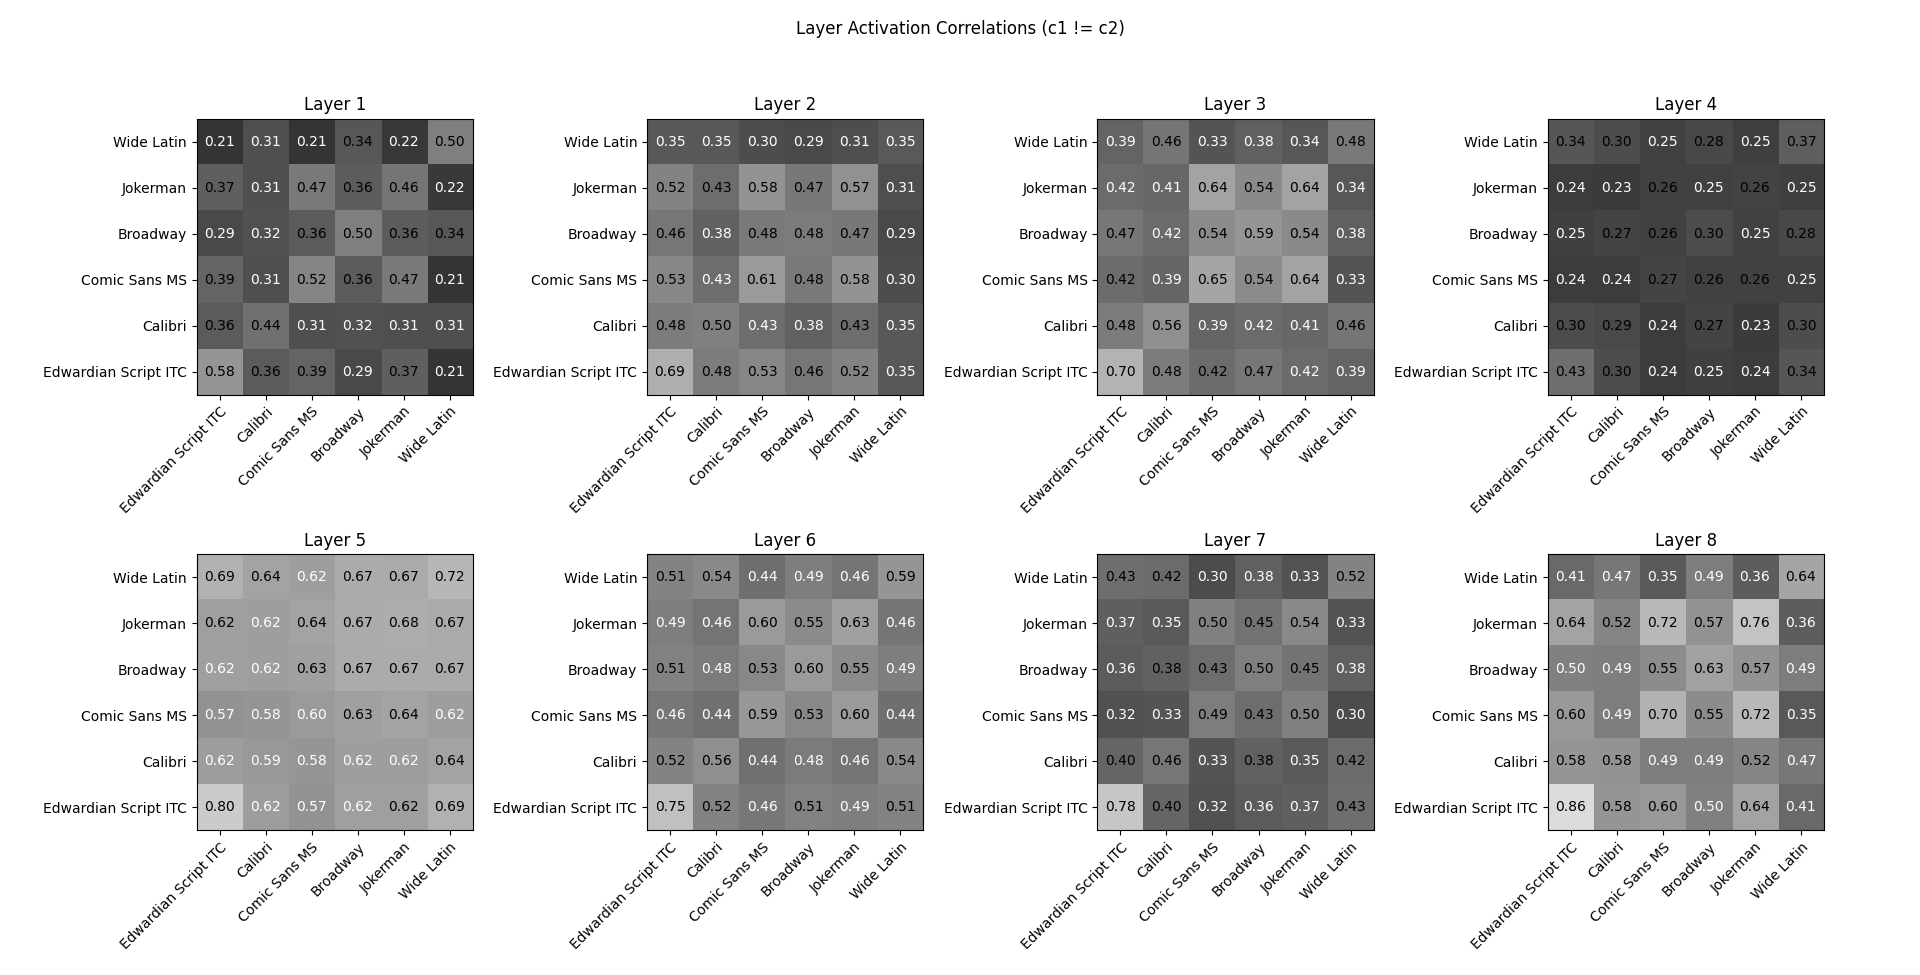
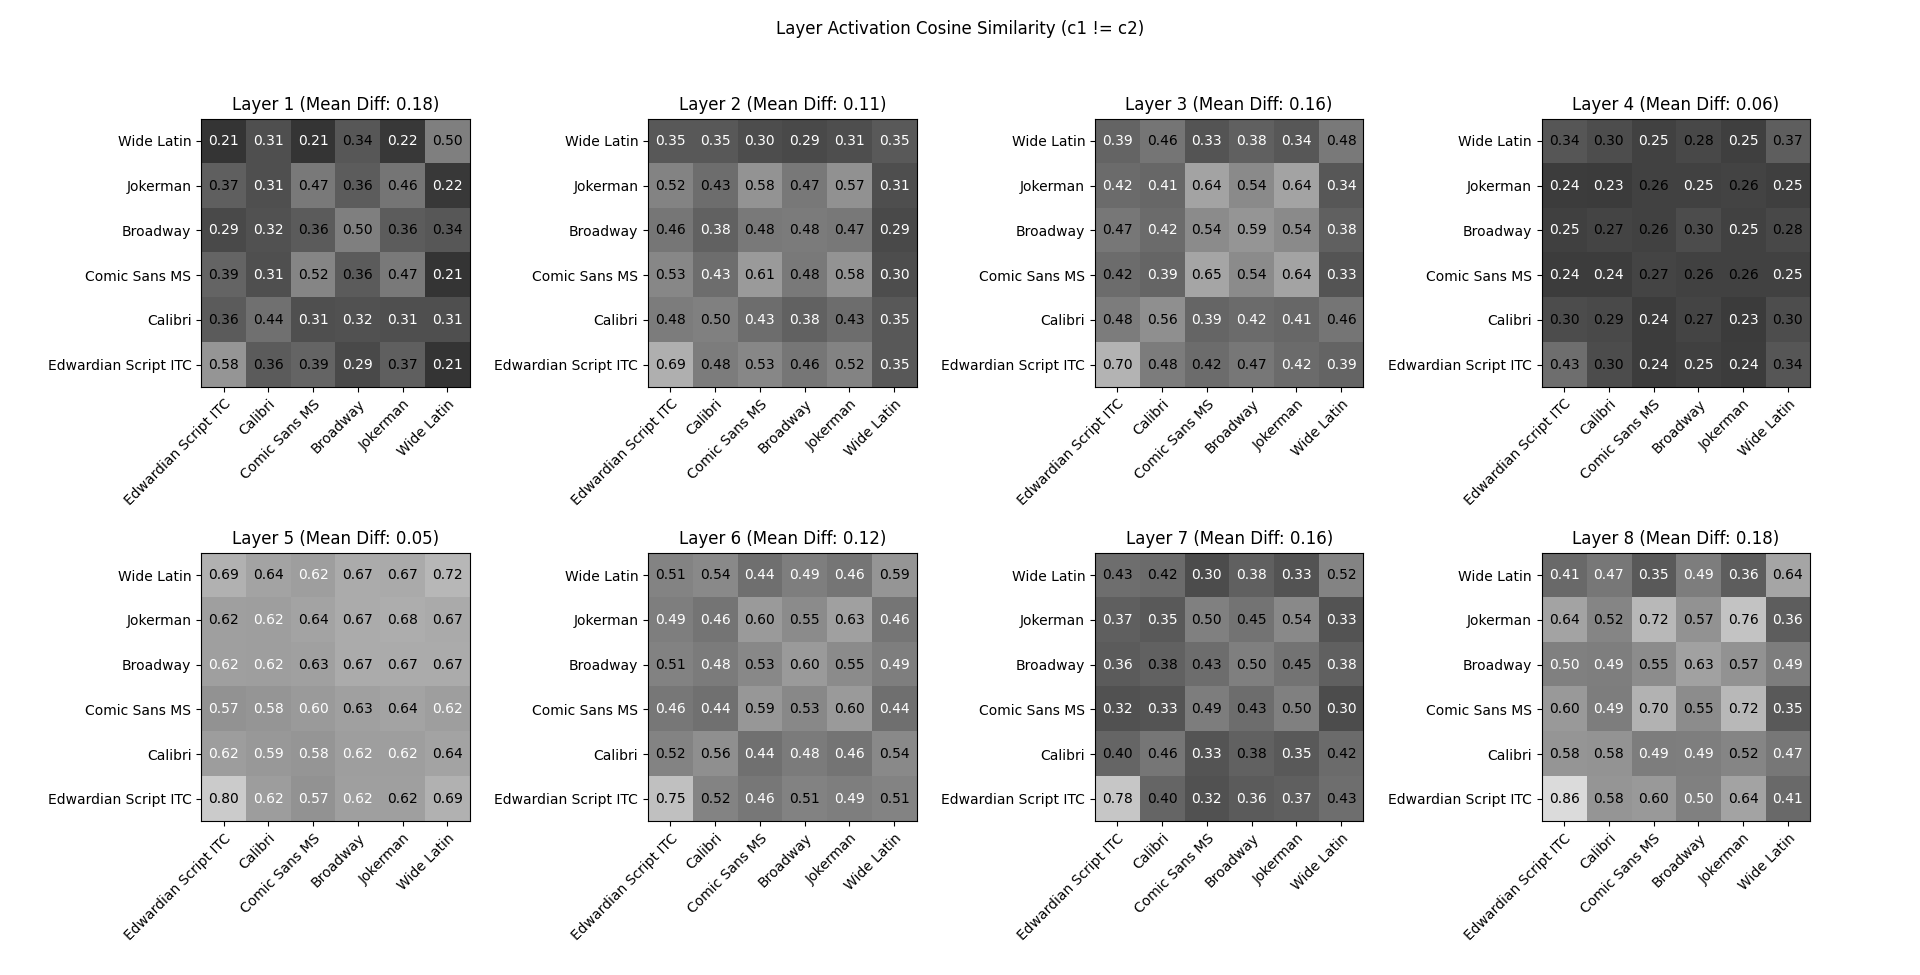
Statistical measures appended to activation similarity for interpretation

diff --git a/style/testing.py b/style/testing.py
@@ -14,6 +14,7 @@ from scipy.stats import pearsonr
 
 import pandas as pd
 import matplotlib.pyplot as plt
+from sklearn.metrics import roc_auc_score
 
 
 # Method for obtaining the correlation between the style applied to the actual images
@@ -29,6 +30,36 @@ def batchCorrelation(yTrueNormal, yTrueStyle, yPredNormal, yPredStyle):
 
 def listify(array):
     return [array[i] for i in range(array.shape[0])]
+
+
+def diagonalCohensD(matrix):
+    mask = np.eye(matrix.shape[0], dtype=bool)
+    onDiag = matrix[mask]
+    offDiag = matrix[~mask]
+
+    diagStd = np.std(onDiag, ddof=1)
+    offStd = np.std(offDiag, ddof=1)
+    diagMean = np.mean(onDiag)
+    offMean = np.mean(offDiag)
+
+    pooledStd = np.sqrt((diagStd ** 2 + offStd ** 2) / 2.0)
+    return (diagMean - offMean) / (pooledStd + 1e-6)
+
+
+def auc(matrix):
+    labels = np.eye(matrix.shape[0], dtype=bool)
+    return roc_auc_score(labels.flatten(), matrix.flatten())
+
+
+def diff(matrix):
+    mask = np.eye(matrix.shape[0], dtype=bool)
+    onDiag = matrix[mask]
+    offDiag = matrix[~mask]
+
+    diagMean = np.mean(onDiag)
+    offMean = np.mean(offDiag)
+    
+    return diagMean - offMean
 
 
 # TODO: Refactor the mess
@@ -154,12 +185,13 @@ if __name__ == "__main__":
         # Weighted sum (char 1 = char 2 has a weight of 0)
         correlation = np.sum(observe, axis=(2, 3))
         correlation = correlation / np.sum(~mask, axis=(2, 3))
-        correlation = np.flip(correlation, axis=0)
 
         ax = plt.subplot(height, width, layer + 1)
-        ax.set_title(f"Layer {layer + 1}")
+        ax.set_title(f"Layer {layer + 1} (Mean Diff: {diff(correlation):.2f})")
+
+        correlation = np.flip(correlation, axis=0)
         ax.imshow(correlation, cmap="binary_r", vmin=0, vmax=1)
-        # ax.colorbar()
+
         ax.set_xticks(range(len(comparativeFonts)), comparativeFonts, rotation=45, ha="right", rotation_mode="anchor")
         ax.set_yticks(range(len(comparativeFonts)), comparativeFonts[::-1])
 
@@ -169,7 +201,7 @@ if __name__ == "__main__":
                 color = "k" if (value > np.percentile(correlation, 40)) else "w"
                 text = ax.text(j, i, f"{value:.2f}", ha="center", va="center", color=color)
 
-    plt.suptitle("Layer Activation Correlations (c1 != c2)")
+    plt.suptitle("Layer Activation Cosine Similarity (c1 != c2)")
     plt.show()
 
     for layer in range(layers):
@@ -180,12 +212,13 @@ if __name__ == "__main__":
         
         correlation = np.sum(observe, axis=(2, 3))
         correlation = correlation / np.sum(mask, axis=(2, 3))
-        correlation = np.flip(correlation, axis=0)
 
         ax = plt.subplot(height, width, layer + 1)
-        ax.set_title(f"Layer {layer + 1}")
+        ax.set_title(f"Layer {layer + 1} (Mean Diff: {diff(correlation):.2f})")
+
+        correlation = np.flip(correlation, axis=0)
         ax.imshow(correlation, cmap="binary_r", vmin=0, vmax=1)
-        # ax.colorbar()
+
         ax.set_xticks(range(len(comparativeFonts)), comparativeFonts, rotation=45, ha="right", rotation_mode="anchor")
         ax.set_yticks(range(len(comparativeFonts)), comparativeFonts[::-1])
 
@@ -195,6 +228,6 @@ if __name__ == "__main__":
                 color = "k" if (value > np.percentile(correlation, 40)) else "w"
                 text = ax.text(j, i, f"{value:.2f}", ha="center", va="center", color=color)
 
-    plt.suptitle("Layer Activation Correlations (c1 == c2)")
+    plt.suptitle("Layer Activation Cosine Similarity (c1 == c2)")
     plt.show()
 
